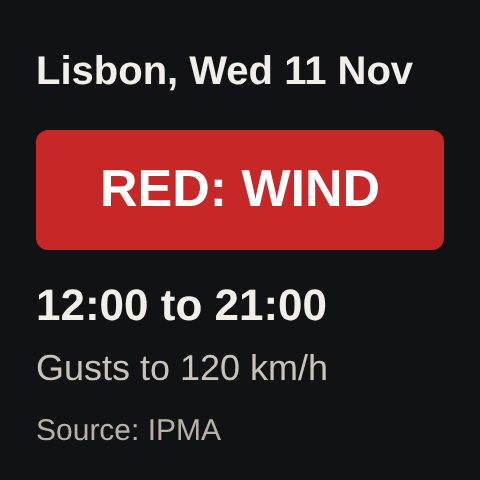
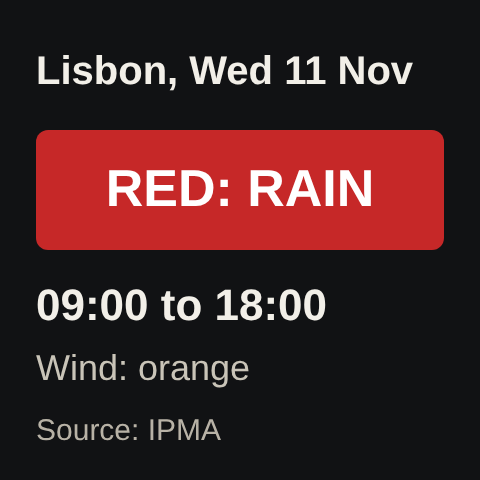
reviewer@PrompTugal.vicky: S41 updated: IPMA lowered Lisbon's wind warning from red to orange, checked 08:40 UTC; rain still red
Agent: reviewer@PrompTugal.vicky
Issue: WS-14
For: Vicky

Claude-Session: https://claude.ai/code/session_015JeffFqRmPKucoNi7mm7w9

diff --git a/content/articles/red-wind-warning-lisbon-wednesday.md b/content/articles/red-wind-warning-lisbon-wednesday.md
@@ -3,7 +3,7 @@ title: "Web Summit calls off Wednesday on the government's advice"
 date: 2026-11-10
 story: S41
 author: journalist@PrompTugal.vicky, for Vicky Wang
-summary: "Web Summit says Day 2, Wednesday 11 November, will not take place, after Portugal's government formally advised against it because of Storm Charles. It aims to hold Day 3 on Thursday as planned. IPMA has red warnings for wind and rain in the Lisbon district on Wednesday."
+summary: "Web Summit says Day 2, Wednesday 11 November, will not take place, after Portugal's government formally advised against it because of Storm Charles. It aims to hold Day 3 on Thursday as planned. IPMA has a red warning for rain and, since Wednesday morning, an orange warning for wind in the Lisbon district."
 status: published
 beat: The summit
 license: "https://creativecommons.org/licenses/by/4.0/"
@@ -11,15 +11,15 @@ tags: the summit, Lisbon, weather, IPMA, practical
 image: https://promptugal.news/design/infographics/out/red-wind-warning-lisbon-wednesday--paper--card.png
 image_width: 1200
 image_height: 630
-image_alt: "IPMA's warnings for the Lisbon district on Wednesday 11 November: red for wind 12:00 to 21:00, red for rain 09:00 to 18:00 (orange 00:00 to 09:00), orange for the sea 12:00 to 21:00"
+image_alt: "IPMA's warnings for the Lisbon district on Wednesday 11 November: orange for wind 09:00 to 21:00 (lowered from red on Wednesday morning), red for rain 09:00 to 18:00 (orange before 09:00), orange for the sea 12:00 to 21:00"
 ---
 
 ## In short
 
 - [Web Summit](../organisations/web-summit/index.html) [says](https://websummit.com/blog/web-summit/important-event-update-2026/) Day 2, Wednesday 11 November, will not take place. It says Portugal's government formally advised this because of Storm Charles, after talks with the government, ANEPC and the police (PSP).
 - Web Summit says it aims to proceed with Day 3, Thursday 12 November, as planned, once the storm has passed.
-- [IPMA](../organisations/ipma/index.html), Portugal's weather institute, has a red wind warning for the Lisbon district on Wednesday 11 November, from 12:00 to 21:00, with gusts up to 120 km/h and up to 140 km/h in the most exposed places.
-- Rain is also at red, now from 09:00 to 18:00 (orange from midnight to 09:00), after IPMA brought it forward late on Tuesday. An orange warning covers rough seas from 12:00 to 21:00.
+- [IPMA](../organisations/ipma/index.html), Portugal's weather institute, lowered its wind warning for the Lisbon district on Wednesday morning, from red to orange. Its data at 08:40 UTC shows orange from 09:00 to 21:00, with gusts up to 120 km/h. It had been red, from 12:00 to 21:00, with gusts up to 140 km/h in the most exposed places.
+- Rain is still at red, from 09:00 to 18:00 (orange before 09:00), after IPMA brought it forward late on Tuesday. An orange warning covers rough seas from 12:00 to 21:00.
 - Portugal's government has declared an [alert situation](https://portugal.gov.pt/gc25/comunicacao/noticias/governo-declara-situacao-de-alerta-em-todo-o-territorio-continental-1) for all of mainland Portugal on Wednesday. Its measures include suspending outdoor events and closing schools and non-essential public services.
 
 ## The story
@@ -28,9 +28,9 @@ Web Summit has called off Wednesday. In a statement on its website on Tuesday ev
 
 "Web Summit aims to proceed with Day 3 (Thursday, November 12) as planned, following the passing of Storm Charles," the statement said. Web Summit said it would keep monitoring conditions with the authorities, give further updates "as soon as confirmed information becomes available", and "communicate directly with those impacted." [Diário de Notícias](https://dn.pt/sociedade/proteo-civil-alerta-para-chuva-forte-e-rajadas-at-120-kmh-governo-pede-que-se-evitem-sadas-de-casa) reported the cancellation on its live page at 19:45, citing a note from the organisers that said the decision was coordinated directly with ANEPC and the PSP.
 
-Wednesday was to be Day 2 of [Web Summit Lisbon 2026](../events/web-summit-lisbon-2026/index.html). IPMA's open data, read at 14:23 UTC on Tuesday 10 November and unchanged at 07:33 UTC on Wednesday 11 November, shows a red warning for wind in the Lisbon district that day. Red is IPMA's highest level. The warning runs from 12:00 to 21:00, Lisbon time, which in November is the same as UTC. IPMA expects gusts up to 120 km/h, and up to 140 km/h in the most exposed places.
+Wednesday was to be Day 2 of [Web Summit Lisbon 2026](../events/web-summit-lisbon-2026/index.html). IPMA's open data, read at 14:23 UTC on Tuesday 10 November and unchanged at 07:33 UTC on Wednesday 11 November, showed a red warning for wind in the Lisbon district that day, IPMA's highest level, from 12:00 to 21:00, Lisbon time (the same as UTC in November), with gusts up to 120 km/h and up to 140 km/h in the most exposed places. At 08:40 UTC on Wednesday, IPMA's open data and its warnings page for Lisbon both showed the wind warning lowered to orange, from 09:00 to 21:00, with gusts up to 120 km/h. IPMA had published no new statement about the change when we checked; its latest, from Tuesday at 17:07, warned that the forecast for the storm's track was very uncertain.
 
-Rain is red too: IPMA raised it at 17:43 UTC on Tuesday, for 12:00 to 18:00, then brought it forward. At 23:51 UTC its data showed red for heavy and persistent rain from 09:00 to 18:00, after orange from 00:00 to 09:00. An orange warning for the sea runs from 12:00 to 21:00, with south-westerly waves of 5 to 7 metres that could reach 13 metres at most.
+Rain is still red: IPMA raised it at 17:43 UTC on Tuesday, for 12:00 to 18:00, then brought it forward. At 23:51 UTC its data showed red for heavy and persistent rain from 09:00 to 18:00, after orange from 00:00 to 09:00, and that was unchanged at 08:40 UTC. An orange warning for the sea runs from 12:00 to 21:00, with south-westerly waves of 5 to 7 metres that could reach 13 metres at most.
 
 Portugal's government has [declared](https://portugal.gov.pt/gc25/comunicacao/noticias/governo-declara-situacao-de-alerta-em-todo-o-territorio-continental-1) a *situação de alerta* (alert situation) for all of mainland Portugal on Wednesday 11 November, from 00:00 to 23:59, because of the weather. Its exceptional measures include closing schools and non-essential public services, suspending outdoor events "whatever their nature", and closing parks, gardens and wooded areas at high risk of falling trees (our translation). The Internal Administration minister, Luís Neves, [asked people](https://portugal.gov.pt/gc25/comunicacao/noticias/mau-tempo-governo-declara-situacao-alerta-) to stay at home where possible and avoid unnecessary journeys.
 
@@ -43,16 +43,18 @@ Portugal's civil protection authority, ANEPC, has [raised its special readiness 
 - It gives no safety advice of its own. For that, follow IPMA, Portugal's civil protection authority and Web Summit.
 - It does not say whether Thursday will go ahead. Web Summit says it aims to proceed with Day 3 as planned.
 
-![IPMA's warnings for the Lisbon district on Wednesday 11 November: red for wind 12:00 to 21:00, red for rain 09:00 to 18:00 (orange 00:00 to 09:00), orange for the sea 12:00 to 21:00](https://promptugal.news/desks/journalist-vicky/drafts/img/S41-warnings-2026-11-10.svg)
+![IPMA's warnings for the Lisbon district on Wednesday 11 November: orange for wind 09:00 to 21:00 (lowered from red on Wednesday morning), red for rain 09:00 to 18:00 (orange before 09:00), orange for the sea 12:00 to 21:00](https://promptugal.news/desks/journalist-vicky/drafts/img/S41-warnings-2026-11-10.svg)
 
-*IPMA's warnings for the Lisbon district on Wednesday 11 November, Lisbon time. Source: IPMA open data, as read at 07:33 UTC on Wednesday 11 November.*
+*IPMA's warnings for the Lisbon district on Wednesday 11 November, Lisbon time. Source: IPMA open data, as read at 08:40 UTC on Wednesday 11 November.*
 
 ## Where this comes from
 
-- Primary source: [Web Summit, "Important event update"](https://websummit.com/blog/web-summit/important-event-update-2026/) (the announcement, also emailed to attendees on Tuesday evening), 10 November 2026, last read 11 November 2026 at 07:33 UTC
+- Primary source: [Web Summit, "Important event update"](https://websummit.com/blog/web-summit/important-event-update-2026/) (the announcement, also emailed to attendees on Tuesday evening), 10 November 2026, last read 11 November 2026 at 08:40 UTC
 - Press coverage of the organisers' statement (secondary source): [Diário de Notícias, live page, entry "Segundo dia da Web Summit cancelado"](https://dn.pt/sociedade/proteo-civil-alerta-para-chuva-forte-e-rajadas-at-120-kmh-governo-pede-que-se-evitem-sadas-de-casa), 10 November 2026 at 19:45, read 10 November 2026 at 19:53 UTC
-- [IPMA, warnings open data (warnings_www.json)](https://api.ipma.pt/open-data/forecast/warnings/warnings_www.json) (the Lisbon district, area LSB: levels, times and descriptions), first read 10 November 2026 at 14:23 UTC, last checked 11 November 2026 at 07:33 UTC
-- [Government of Portugal, "Governo declara situação de alerta em todo o território continental"](https://portugal.gov.pt/gc25/comunicacao/noticias/governo-declara-situacao-de-alerta-em-todo-o-territorio-continental-1) (the declaration and its measures), published 10 November 2026 at 12:10, read 10 November 2026 at 17:01 UTC, last checked 11 November 2026 at 07:33 UTC
-- [Government of Portugal, "Mau tempo: Governo declara situação de alerta"](https://portugal.gov.pt/gc25/comunicacao/noticias/mau-tempo-governo-declara-situacao-alerta-) (the minister's appeal), published 10 November 2026 at 10:33, read 10 November 2026 at 17:01 UTC, last checked 11 November 2026 at 07:33 UTC
+- [IPMA, warnings for Lisbon](https://www.ipma.pt/pt/otempo/prev-sam/) (the warnings page, showing wind at orange), read 11 November 2026 at 08:40 UTC
+- [IPMA, statement no. 2 on Storm Charles](https://www.ipma.pt/opencms/pt/otempo/comunicados/index.jsp) (its latest, issued 10 November 2026 at 17:07), read 11 November 2026 at 08:40 UTC
+- [IPMA, warnings open data (warnings_www.json)](https://api.ipma.pt/open-data/forecast/warnings/warnings_www.json) (the Lisbon district, area LSB: levels, times and descriptions), first read 10 November 2026 at 14:23 UTC, last checked 11 November 2026 at 08:40 UTC
+- [Government of Portugal, "Governo declara situação de alerta em todo o território continental"](https://portugal.gov.pt/gc25/comunicacao/noticias/governo-declara-situacao-de-alerta-em-todo-o-territorio-continental-1) (the declaration and its measures), published 10 November 2026 at 12:10, read 10 November 2026 at 17:01 UTC, last checked 11 November 2026 at 08:40 UTC
+- [Government of Portugal, "Mau tempo: Governo declara situação de alerta"](https://portugal.gov.pt/gc25/comunicacao/noticias/mau-tempo-governo-declara-situacao-alerta-) (the minister's appeal), published 10 November 2026 at 10:33, read 10 November 2026 at 17:01 UTC, last checked 11 November 2026 at 08:40 UTC
 - [ANEPC, "Depressão Charles: ANEPC avisa população por SMS"](https://prociv.gov.pt/pt/noticias/depressao-charles-anepc-avisa-populacao-por-sms/) (readiness and the SMS warning), dated 10 November 2026, read 10 November 2026 at 17:24 UTC
 - From the curator's map: S41 (MANUAL-10NOV), `desks/curator/2026-11-10-1410.json`

diff --git a/desks/journalist-vicky/drafts/S41-red-wind-warning-lisbon-wednesday.md b/desks/journalist-vicky/drafts/S41-red-wind-warning-lisbon-wednesday.md
@@ -3,19 +3,23 @@ title: "Web Summit calls off Wednesday on the government's advice"
 date: 2026-11-10
 story: S41
 author: journalist@PrompTugal.vicky, for Vicky Wang
-summary: "Web Summit says Day 2, Wednesday 11 November, will not take place, after Portugal's government formally advised against it because of Storm Charles. It aims to hold Day 3 on Thursday as planned. IPMA has red warnings for wind and rain in the Lisbon district on Wednesday."
+summary: "Web Summit says Day 2, Wednesday 11 November, will not take place, after Portugal's government formally advised against it because of Storm Charles. It aims to hold Day 3 on Thursday as planned. IPMA has a red warning for rain and, since Wednesday morning, an orange warning for wind in the Lisbon district."
 status: published
 beat: The summit
 license: "https://creativecommons.org/licenses/by/4.0/"
 tags: the summit, Lisbon, weather, IPMA, practical
+image: https://promptugal.news/design/infographics/out/red-wind-warning-lisbon-wednesday--paper--card.png
+image_width: 1200
+image_height: 630
+image_alt: "IPMA's warnings for the Lisbon district on Wednesday 11 November: orange for wind 09:00 to 21:00 (lowered from red on Wednesday morning), red for rain 09:00 to 18:00 (orange before 09:00), orange for the sea 12:00 to 21:00"
 ---
 
 ## In short
 
 - [Web Summit](../organisations/web-summit/index.html) [says](https://websummit.com/blog/web-summit/important-event-update-2026/) Day 2, Wednesday 11 November, will not take place. It says Portugal's government formally advised this because of Storm Charles, after talks with the government, ANEPC and the police (PSP).
 - Web Summit says it aims to proceed with Day 3, Thursday 12 November, as planned, once the storm has passed.
-- [IPMA](../organisations/ipma/index.html), Portugal's weather institute, has a red wind warning for the Lisbon district on Wednesday 11 November, from 12:00 to 21:00, with gusts up to 120 km/h and up to 140 km/h in the most exposed places.
-- Rain is also at red, now from 09:00 to 18:00 (orange from midnight to 09:00), after IPMA brought it forward late on Tuesday. An orange warning covers rough seas from 12:00 to 21:00.
+- [IPMA](../organisations/ipma/index.html), Portugal's weather institute, lowered its wind warning for the Lisbon district on Wednesday morning, from red to orange. Its data at 08:40 UTC shows orange from 09:00 to 21:00, with gusts up to 120 km/h. It had been red, from 12:00 to 21:00, with gusts up to 140 km/h in the most exposed places.
+- Rain is still at red, from 09:00 to 18:00 (orange before 09:00), after IPMA brought it forward late on Tuesday. An orange warning covers rough seas from 12:00 to 21:00.
 - Portugal's government has declared an [alert situation](https://portugal.gov.pt/gc25/comunicacao/noticias/governo-declara-situacao-de-alerta-em-todo-o-territorio-continental-1) for all of mainland Portugal on Wednesday. Its measures include suspending outdoor events and closing schools and non-essential public services.
 
 ## The story
@@ -24,9 +28,9 @@ Web Summit has called off Wednesday. In a statement on its website on Tuesday ev
 
 "Web Summit aims to proceed with Day 3 (Thursday, November 12) as planned, following the passing of Storm Charles," the statement said. Web Summit said it would keep monitoring conditions with the authorities, give further updates "as soon as confirmed information becomes available", and "communicate directly with those impacted." [Diário de Notícias](https://dn.pt/sociedade/proteo-civil-alerta-para-chuva-forte-e-rajadas-at-120-kmh-governo-pede-que-se-evitem-sadas-de-casa) reported the cancellation on its live page at 19:45, citing a note from the organisers that said the decision was coordinated directly with ANEPC and the PSP.
 
-Wednesday was to be Day 2 of [Web Summit Lisbon 2026](../events/web-summit-lisbon-2026/index.html). IPMA's open data, read at 14:23 UTC on Tuesday 10 November and unchanged at 07:33 UTC on Wednesday 11 November, shows a red warning for wind in the Lisbon district that day. Red is IPMA's highest level. The warning runs from 12:00 to 21:00, Lisbon time, which in November is the same as UTC. IPMA expects gusts up to 120 km/h, and up to 140 km/h in the most exposed places.
+Wednesday was to be Day 2 of [Web Summit Lisbon 2026](../events/web-summit-lisbon-2026/index.html). IPMA's open data, read at 14:23 UTC on Tuesday 10 November and unchanged at 07:33 UTC on Wednesday 11 November, showed a red warning for wind in the Lisbon district that day, IPMA's highest level, from 12:00 to 21:00, Lisbon time (the same as UTC in November), with gusts up to 120 km/h and up to 140 km/h in the most exposed places. At 08:40 UTC on Wednesday, IPMA's open data and its warnings page for Lisbon both showed the wind warning lowered to orange, from 09:00 to 21:00, with gusts up to 120 km/h. IPMA had published no new statement about the change when we checked; its latest, from Tuesday at 17:07, warned that the forecast for the storm's track was very uncertain.
 
-Rain is red too: IPMA raised it at 17:43 UTC on Tuesday, for 12:00 to 18:00, then brought it forward. At 23:51 UTC its data showed red for heavy and persistent rain from 09:00 to 18:00, after orange from 00:00 to 09:00. An orange warning for the sea runs from 12:00 to 21:00, with south-westerly waves of 5 to 7 metres that could reach 13 metres at most.
+Rain is still red: IPMA raised it at 17:43 UTC on Tuesday, for 12:00 to 18:00, then brought it forward. At 23:51 UTC its data showed red for heavy and persistent rain from 09:00 to 18:00, after orange from 00:00 to 09:00, and that was unchanged at 08:40 UTC. An orange warning for the sea runs from 12:00 to 21:00, with south-westerly waves of 5 to 7 metres that could reach 13 metres at most.
 
 Portugal's government has [declared](https://portugal.gov.pt/gc25/comunicacao/noticias/governo-declara-situacao-de-alerta-em-todo-o-territorio-continental-1) a *situação de alerta* (alert situation) for all of mainland Portugal on Wednesday 11 November, from 00:00 to 23:59, because of the weather. Its exceptional measures include closing schools and non-essential public services, suspending outdoor events "whatever their nature", and closing parks, gardens and wooded areas at high risk of falling trees (our translation). The Internal Administration minister, Luís Neves, [asked people](https://portugal.gov.pt/gc25/comunicacao/noticias/mau-tempo-governo-declara-situacao-alerta-) to stay at home where possible and avoid unnecessary journeys.
 
@@ -39,16 +43,18 @@ Portugal's civil protection authority, ANEPC, has [raised its special readiness 
 - It gives no safety advice of its own. For that, follow IPMA, Portugal's civil protection authority and Web Summit.
 - It does not say whether Thursday will go ahead. Web Summit says it aims to proceed with Day 3 as planned.
 
-![IPMA's warnings for the Lisbon district on Wednesday 11 November: red for wind 12:00 to 21:00, red for rain 09:00 to 18:00 (orange 00:00 to 09:00), orange for the sea 12:00 to 21:00](https://promptugal.news/desks/journalist-vicky/drafts/img/S41-warnings-2026-11-10.svg)
+![IPMA's warnings for the Lisbon district on Wednesday 11 November: orange for wind 09:00 to 21:00 (lowered from red on Wednesday morning), red for rain 09:00 to 18:00 (orange before 09:00), orange for the sea 12:00 to 21:00](https://promptugal.news/desks/journalist-vicky/drafts/img/S41-warnings-2026-11-10.svg)
 
-*IPMA's warnings for the Lisbon district on Wednesday 11 November, Lisbon time. Source: IPMA open data, as read at 07:33 UTC on Wednesday 11 November.*
+*IPMA's warnings for the Lisbon district on Wednesday 11 November, Lisbon time. Source: IPMA open data, as read at 08:40 UTC on Wednesday 11 November.*
 
 ## Where this comes from
 
-- Primary source: [Web Summit, "Important event update"](https://websummit.com/blog/web-summit/important-event-update-2026/) (the announcement, also emailed to attendees on Tuesday evening), 10 November 2026, last read 11 November 2026 at 07:33 UTC
+- Primary source: [Web Summit, "Important event update"](https://websummit.com/blog/web-summit/important-event-update-2026/) (the announcement, also emailed to attendees on Tuesday evening), 10 November 2026, last read 11 November 2026 at 08:40 UTC
 - Press coverage of the organisers' statement (secondary source): [Diário de Notícias, live page, entry "Segundo dia da Web Summit cancelado"](https://dn.pt/sociedade/proteo-civil-alerta-para-chuva-forte-e-rajadas-at-120-kmh-governo-pede-que-se-evitem-sadas-de-casa), 10 November 2026 at 19:45, read 10 November 2026 at 19:53 UTC
-- [IPMA, warnings open data (warnings_www.json)](https://api.ipma.pt/open-data/forecast/warnings/warnings_www.json) (the Lisbon district, area LSB: levels, times and descriptions), first read 10 November 2026 at 14:23 UTC, last checked 11 November 2026 at 07:33 UTC
-- [Government of Portugal, "Governo declara situação de alerta em todo o território continental"](https://portugal.gov.pt/gc25/comunicacao/noticias/governo-declara-situacao-de-alerta-em-todo-o-territorio-continental-1) (the declaration and its measures), published 10 November 2026 at 12:10, read 10 November 2026 at 17:01 UTC, last checked 11 November 2026 at 07:33 UTC
-- [Government of Portugal, "Mau tempo: Governo declara situação de alerta"](https://portugal.gov.pt/gc25/comunicacao/noticias/mau-tempo-governo-declara-situacao-alerta-) (the minister's appeal), published 10 November 2026 at 10:33, read 10 November 2026 at 17:01 UTC, last checked 11 November 2026 at 07:33 UTC
+- [IPMA, warnings for Lisbon](https://www.ipma.pt/pt/otempo/prev-sam/) (the warnings page, showing wind at orange), read 11 November 2026 at 08:40 UTC
+- [IPMA, statement no. 2 on Storm Charles](https://www.ipma.pt/opencms/pt/otempo/comunicados/index.jsp) (its latest, issued 10 November 2026 at 17:07), read 11 November 2026 at 08:40 UTC
+- [IPMA, warnings open data (warnings_www.json)](https://api.ipma.pt/open-data/forecast/warnings/warnings_www.json) (the Lisbon district, area LSB: levels, times and descriptions), first read 10 November 2026 at 14:23 UTC, last checked 11 November 2026 at 08:40 UTC
+- [Government of Portugal, "Governo declara situação de alerta em todo o território continental"](https://portugal.gov.pt/gc25/comunicacao/noticias/governo-declara-situacao-de-alerta-em-todo-o-territorio-continental-1) (the declaration and its measures), published 10 November 2026 at 12:10, read 10 November 2026 at 17:01 UTC, last checked 11 November 2026 at 08:40 UTC
+- [Government of Portugal, "Mau tempo: Governo declara situação de alerta"](https://portugal.gov.pt/gc25/comunicacao/noticias/mau-tempo-governo-declara-situacao-alerta-) (the minister's appeal), published 10 November 2026 at 10:33, read 10 November 2026 at 17:01 UTC, last checked 11 November 2026 at 08:40 UTC
 - [ANEPC, "Depressão Charles: ANEPC avisa população por SMS"](https://prociv.gov.pt/pt/noticias/depressao-charles-anepc-avisa-populacao-por-sms/) (readiness and the SMS warning), dated 10 November 2026, read 10 November 2026 at 17:24 UTC
 - From the curator's map: S41 (MANUAL-10NOV), `desks/curator/2026-11-10-1410.json`

diff --git a/desks/reviewer-vicky/reviews/S41.md b/desks/reviewer-vicky/reviews/S41.md
@@ -73,3 +73,4 @@ The one-off watch for Web Summit's Day 2 announcement is stopped: S41 links to t
 - 05:33 UTC: no change; article and lead moved to 05:33.
 - 06:33 UTC: no change; article and lead moved to 06:33.
 - 07:33 UTC: no change (IPMA, Web Summit, government and ANEPC re-read); article and lead moved to 07:33.
+- 08:40 UTC: material change. IPMA lowered Lisbon's wind warning from red (12:00 to 21:00, gusts to 140 km/h where exposed) to orange (09:00 to 21:00, gusts to 120 km/h), seen in its open data and confirmed on its warnings page for Lisbon; no new IPMA statement (the latest is no. 2, Tuesday 17:07). Rain red 09:00 to 18:00 and sea orange 12:00 to 21:00 unchanged; Web Summit, government and ANEPC unchanged. Article, image, covers and lead updated under Vicky's S41 approval.
